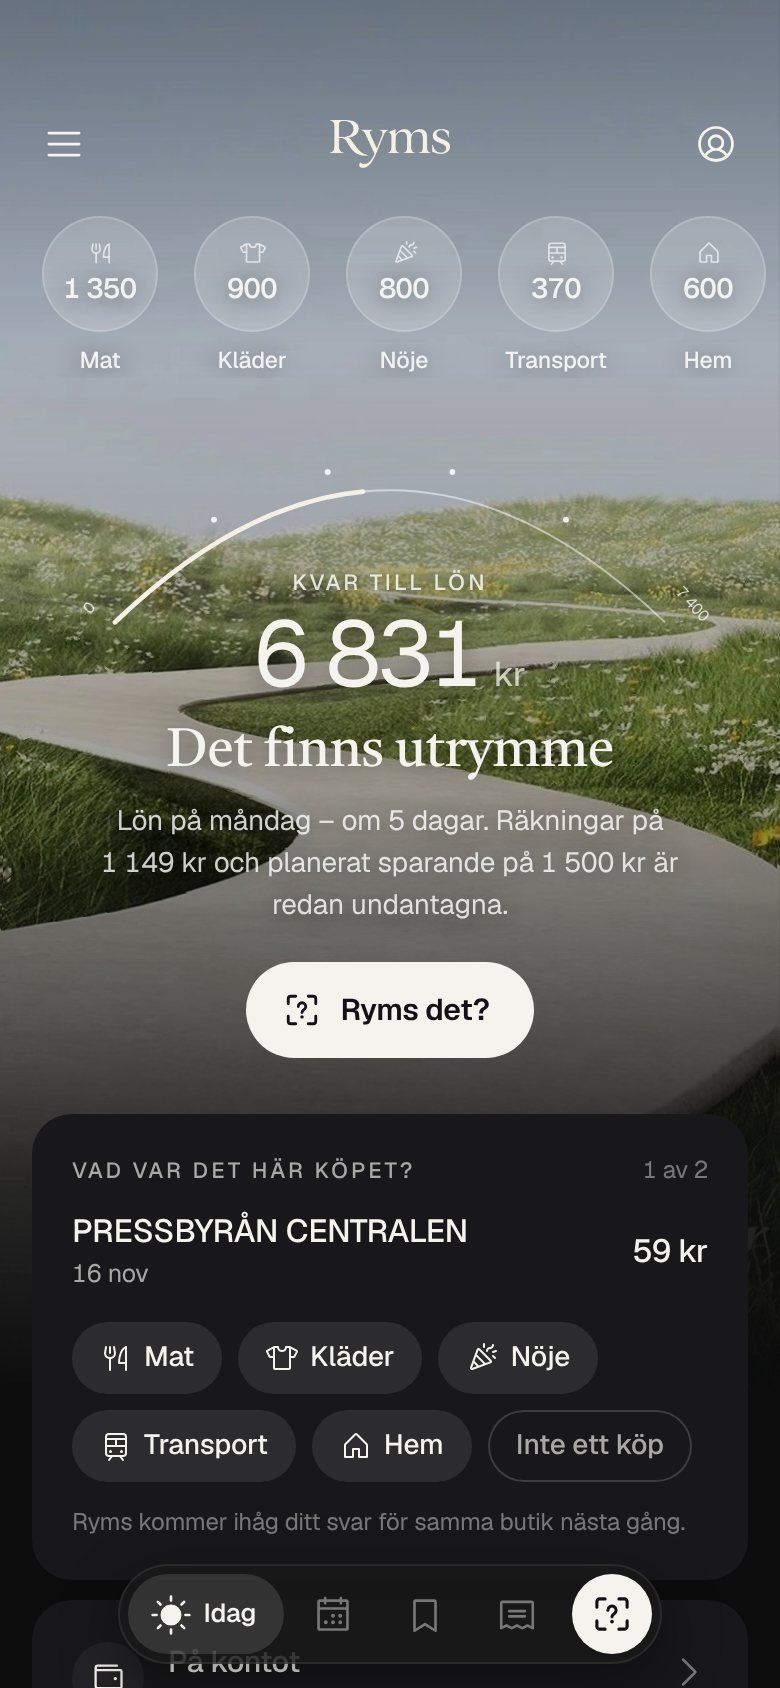
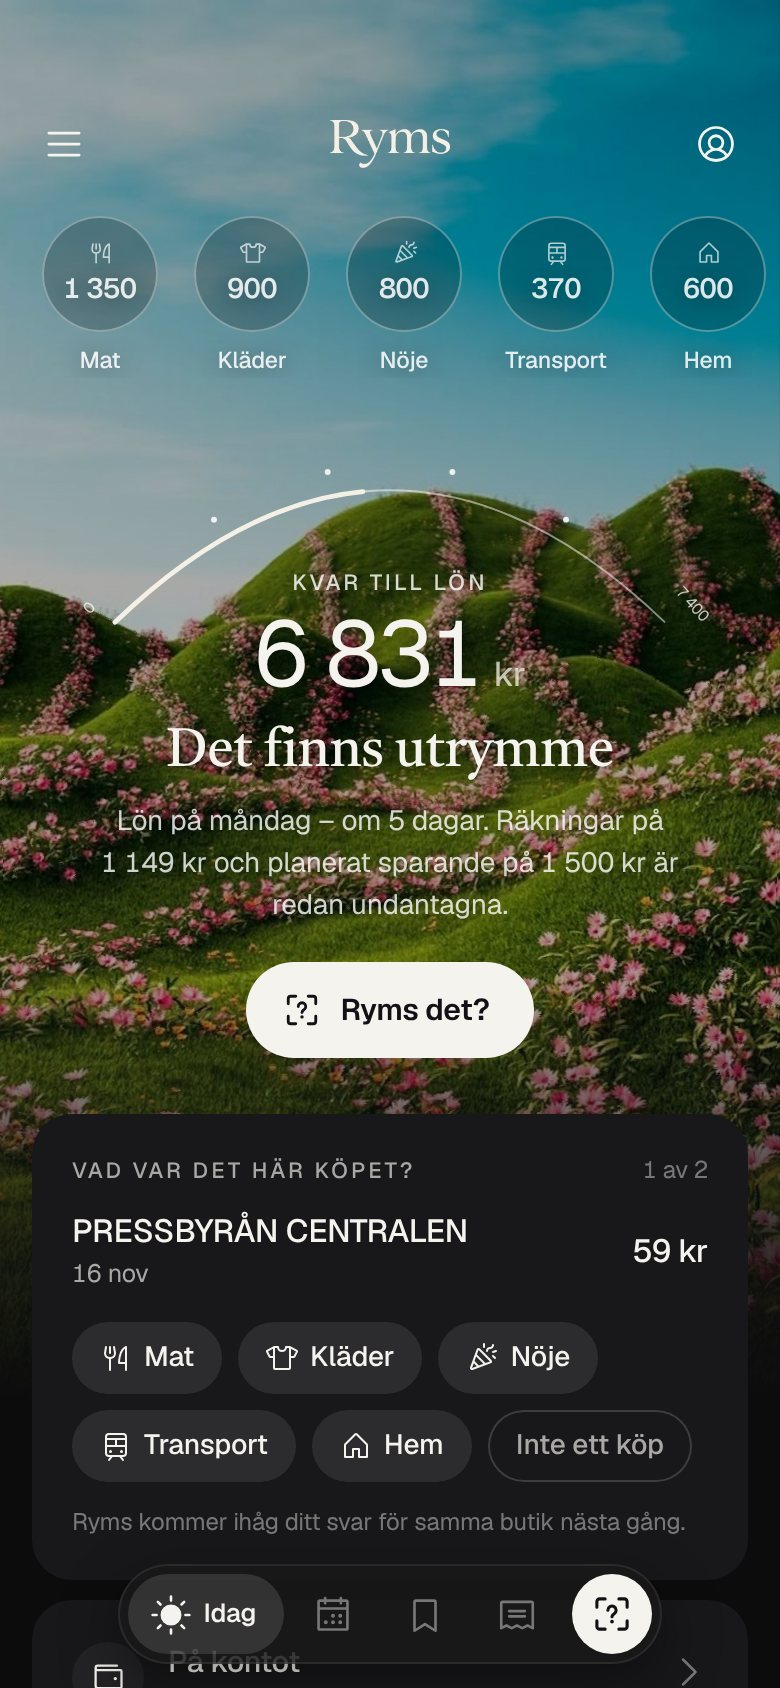
Blomsterkullar som bakgrund, tunn svart slöja i stället för grå
Claude-Session: https://claude.ai/code/session_01GAD7svFHpQ8hFb5MfyqAze

diff --git a/src/app/globals.css b/src/app/globals.css
@@ -2276,3 +2276,25 @@ body:not(:has(.shell.home)):not(:has([data-testid="result"])) .backdrop::after {
 .backdrop::after {
   background: linear-gradient(180deg, rgba(12, 12, 13, 0.56) 0%, rgba(12, 12, 13, 0.4) 24%, rgba(12, 12, 13, 0.54) 56%, rgba(12, 12, 13, 0.9) 84%, var(--bg) 100%);
 }
+
+/* ═════════ Blomsterkullar under blå himmel. Tunn, jämn svart slöja – ingen grå dimma. ═════════ */
+.backdrop img.photo,
+.backdrop img.wave {
+  object-position: 50% 58%;
+  filter: none;
+}
+.backdrop img.wave {
+  filter: url(#ryms-wave);
+  -webkit-mask-image: linear-gradient(180deg, transparent 0%, transparent 34%, #000 46%);
+  mask-image: linear-gradient(180deg, transparent 0%, transparent 34%, #000 46%);
+}
+.backdrop::after {
+  background: linear-gradient(180deg, rgba(0, 0, 0, 0.3) 0%, rgba(0, 0, 0, 0.3) 70%, rgba(12, 12, 13, 0.8) 88%, var(--bg) 100%);
+}
+body:not(:has(.shell.home)):not(:has([data-testid="result"])) .backdrop::after {
+  background: linear-gradient(180deg, rgba(0, 0, 0, 0.36) 0%, rgba(0, 0, 0, 0.4) 45%, rgba(12, 12, 13, 0.9) 80%, var(--bg) 100%);
+}
+.chip-ring {
+  background: rgba(0, 0, 0, 0.2);
+  box-shadow: inset 0 0 0 1px rgba(255, 255, 255, 0.32);
+}
